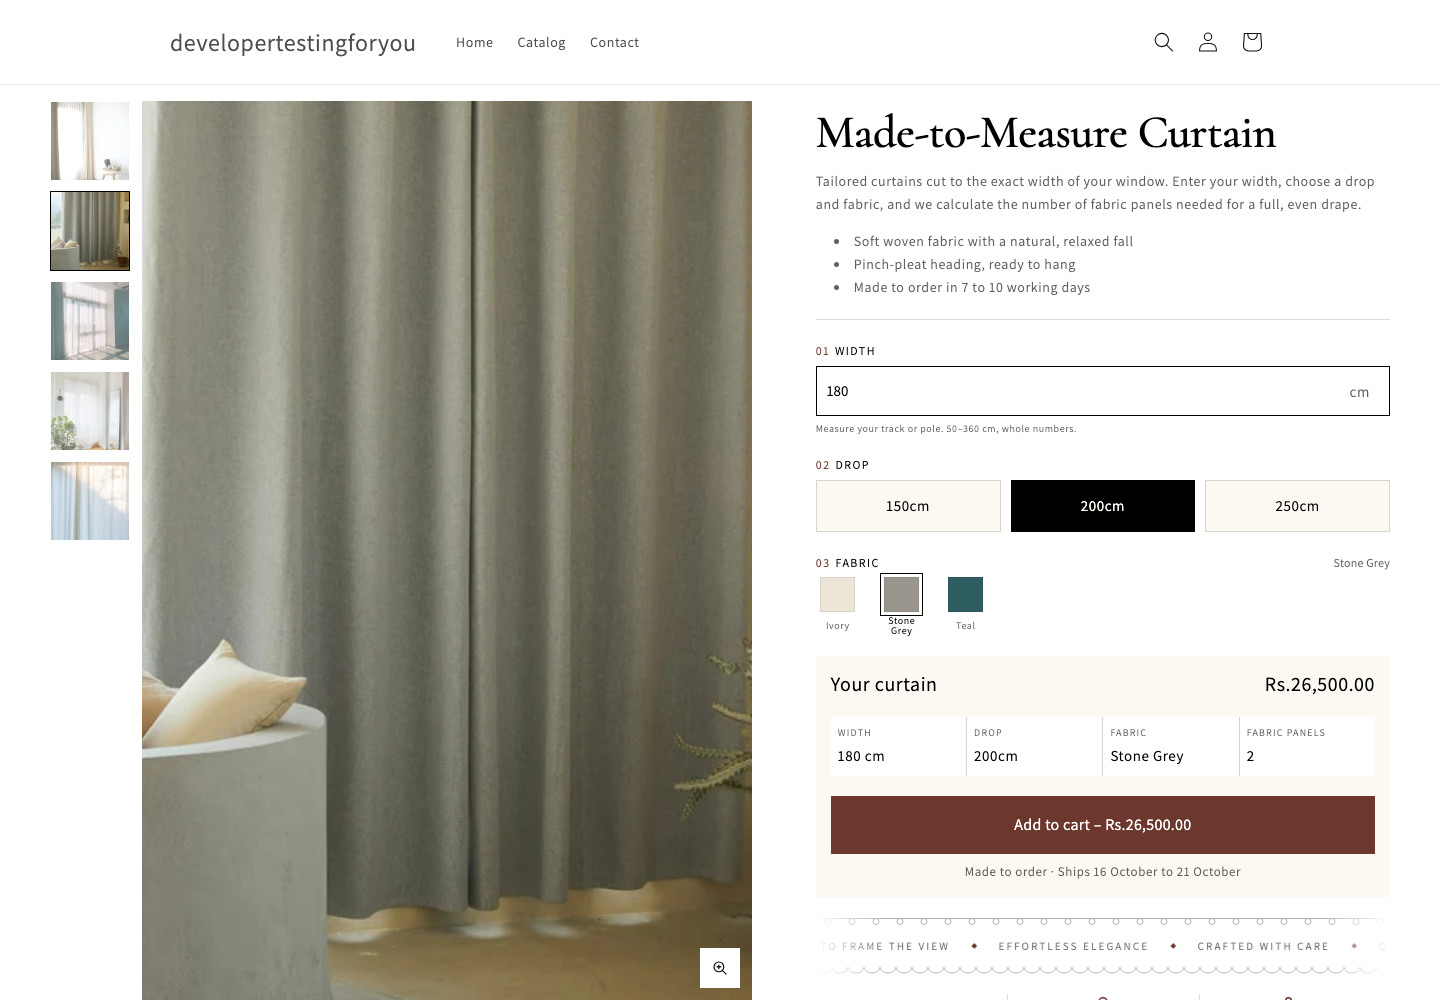
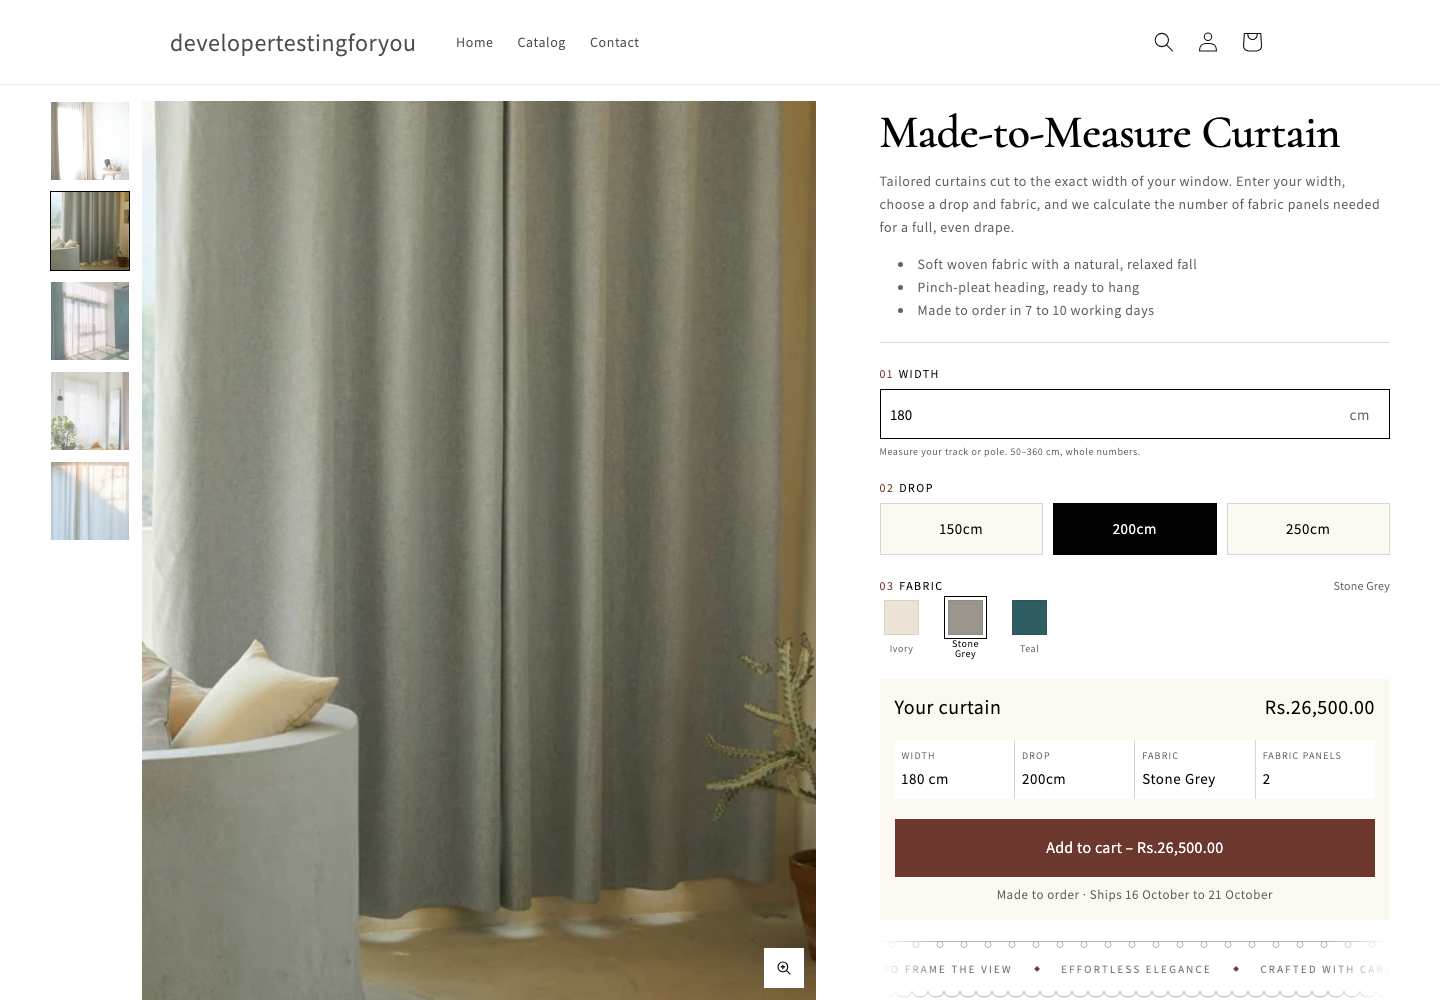
Move all swatches into the fabric picker block and split 60/40
- The fabric picker holds up to six swatches (value, color, optional
  image); the separate swatch block type is removed and the three
  existing swatches are migrated with their colors
- Desktop layout is now 60% gallery, 40% product details

diff --git a/assets/curtain-configurator.css b/assets/curtain-configurator.css
@@ -12,7 +12,7 @@ curtain-configurator {
 
 .cc__inner {
   display: grid;
-  grid-template-columns: minmax(0, 55fr) minmax(0, 45fr);
+  grid-template-columns: minmax(0, 60fr) minmax(0, 40fr);
   gap: var(--cc-gap);
   align-items: start;
   max-width: var(--cc-max-width);

diff --git a/README.md b/README.md
@@ -11,7 +11,7 @@ All pricing data lives in a metaobject. The theme code contains no width ranges 
 | Path | Purpose |
 | --- | --- |
 | `sections/curtain-configurator.liquid` | The section: gallery, inputs, summary card, and the JSON config read from the metafield |
-| `snippets/curtain-swatch.liquid` | One fabric swatch radio, used by swatch blocks and by the fallback |
+| `snippets/curtain-swatch.liquid` | One fabric swatch radio, used by the fabric picker and its fallback |
 | `snippets/curtain-trust-icon.liquid` | Line icons for the trust badges |
 | `assets/curtain-configurator.js` | The `<curtain-configurator>` custom element (vanilla ES2020, no libraries) |
 | `assets/curtain-configurator.css` | Styles, loaded only by this section |
@@ -98,7 +98,7 @@ The option names are section settings, so a product that uses "Colour" or "Lengt
 
 1. Push the theme with `shopify theme push --unpublished`, or copy in the files from the table above.
 2. In **Theme settings → Cart**, set **Cart type** to **Drawer**. The section also works with the notification popup or the cart page, but the drawer is the intended experience.
-3. Open the product in the theme editor. Each part of the product column is a block. Each Fabric swatch block's **Color option value** must match the variant's Color value exactly.
+3. Open the product in the theme editor. Each part of the product column is a block. In the Fabric picker block, each swatch's **Color option value** must match the variant's Color value exactly.
 
 ## How the price is calculated
 
@@ -226,8 +226,7 @@ Every part of the product column is its own block, so it can be reordered, remov
 | Description | None | Shows the product description |
 | Width input | Label, hint | The allowed range is added after the hint |
 | Drop picker | Label | Values come from the Drop option |
-| Fabric picker | Label | Shows the Fabric swatch blocks, or the Color values if there are none |
-| Fabric swatch | Color option value, swatch color, optional fabric image | One per color. The value must match the variant's Color value exactly |
+| Fabric picker | Label, and up to six swatches, each with a color option value, a swatch color and an optional fabric image | All swatches live in this one block. A swatch with a blank value is hidden. With none filled in, the product's Color values are shown |
 | Price and add to cart | Title, panel count visibility, note, delivery days, working days only | The summary card and button |
 | Marquee | Items, one per line, and seconds per loop | A slim scrolling strip under the add to cart card, edged like a curtain with a ringed rod on top and a scalloped hem below. Pauses on hover |
 | Trust badges | Icon, title and text for up to three badges | Sits under the marquee. A badge with an empty title is hidden |
@@ -242,7 +241,7 @@ The step numbers 01, 02 and 03 come from a CSS counter, so they follow the block
 **Delivery dates.** The note in the add to cart block can contain `[start]` and `[end]`. The script fills them with dates counted from today, for example "Made to order · Ships 16 October to 21 October". The earliest and latest day counts are settings, and weekends can be skipped. The dates are worked out in the browser, because Shopify may serve a cached page rendered on an earlier day.
 
 **Section settings.**
-- **Gallery:** image ratio, a badge on the first image ("Custom Fit" by default, blank to hide), and image zoom. On desktop the gallery takes 55% of the width and the product details 45%. The main image fills the screen below the header, with thumbnails in a column on its left. On tablet and mobile the ratio applies, and on mobile the thumbnails move under the image.
+- **Gallery:** image ratio, a badge on the first image ("Custom Fit" by default, blank to hide), and image zoom. On desktop the gallery takes 60% of the width and the product details 40%. The main image fills the screen below the header, with thumbnails in a column on its left. On tablet and mobile the ratio applies, and on mobile the thumbnails move under the image.
 
 **Image zoom.** On desktop, hovering the main image shows a 2.5x magnified copy that follows the pointer. On touch screens, a tap zooms in at that point, dragging pans, and a second tap zooms out. A magnifier button in the corner toggles zoom for keyboard and touch users, and Escape closes it. The magnified copy is a 2400px version of the image, loaded only when zoom is first used.
 - **Configuration:** default width, and the names of the Color, Drop and Panels options.
@@ -253,14 +252,14 @@ The section only appears on product templates. It shows a setup notice in the ed
 
 ## Testing
 
-`tests/e2e/run.mjs` runs 63 checks against a live preview:
+`tests/e2e/run.mjs` runs 64 checks against a live preview:
 
 - **Rendering:** no Panels control on the page, and no Dawn product form.
 - **Pricing:** price and panel count at every tier boundary, from 50 to 360 cm.
 - **Validation:** inline errors for 49, 361, 180.5 and an empty field.
 - **Delivery dates:** the note shows the dates 7 and 10 working days from today.
-- **Interaction:** color swaps the gallery image, and arrow keys move through the swatches.
-- **Layout:** a 1440px container on wide screens, a 55/45 desktop split, thumbnails to the left of the main image, the main image filling the screen below the header, three collapsible rows under the button, zero layout shift, and no horizontal overflow at tablet and mobile widths.
+- **Interaction:** color swaps the gallery image, arrow keys move through the swatches, and all swatches come from one fabric block.
+- **Layout:** a 1440px container on wide screens, a 60/40 desktop split, thumbnails to the left of the main image, the main image filling the screen below the header, three collapsible rows under the button, zero layout shift, and no horizontal overflow at tablet and mobile widths.
 - **Interaction:** rows start closed and only one opens at a time, and the button curtain covers the button on hover.
 - **Trust badges:** three badges sit between the add to cart card and the rows.
 - **Image:** the badge sits on the first image only, hover zoom follows the pointer and ends on leave, and the zoom button works from the keyboard.
